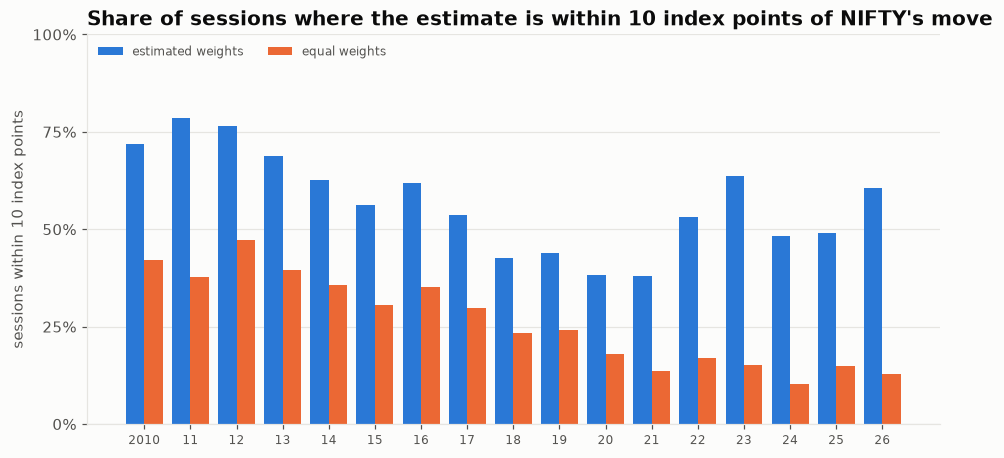
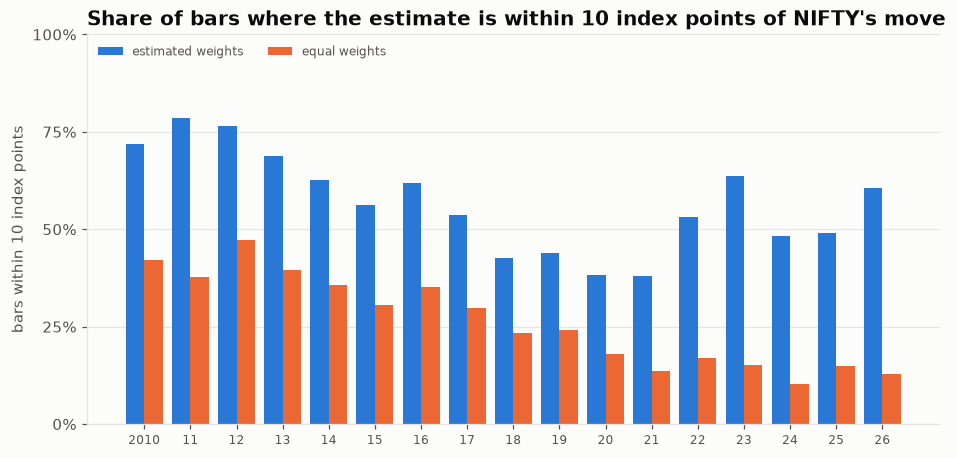
docs: drop an untested claim from finding 5, make the demo sector contributions add up and label them synthetic, and say bars in the sectors report
Finding 5 now only states that no regularisation was used. The demo snapshot's top-10 stocks plus the other 38 now sum to the +84 shown, and the README says the Sectors screenshot is synthetic. The sectors report and its charts count NIFTY bars, matching findings 3 to 5.

diff --git a/src/mt/reports.py b/src/mt/reports.py
@@ -500,7 +500,7 @@ def _tracking_charts(trk: pd.DataFrame, out_dir: Path) -> None:
     ax.set_xlabel("sum of weight × stock return, weights from the previous 60 sessions")
     ax.set_ylabel("NIFTY's day return")
     ax.set_title(
-        f"Estimated against actual NIFTY day return, {len(trk):,} sessions "
+        f"Estimated against actual NIFTY day return, {len(trk):,} bars "
         f"{trk.index[0]:%Y}–{trk.index[-1]:%Y}\ndashed line: estimate equals actual"
     )
     plots.save(fig, out_dir, "sectors_tracking")
@@ -518,15 +518,15 @@ def _tracking_charts(trk: pd.DataFrame, out_dir: Path) -> None:
     ax.set_xticks(x, [str(y)[2:] if y != years[0] else str(y) for y in years], fontsize=8)
     ax.set_ylim(0, 100)
     ax.set_yticks([0, 25, 50, 75, 100], ["0%", "25%", "50%", "75%", "100%"])
-    ax.set_ylabel("sessions within 10 index points")
+    ax.set_ylabel("bars within 10 index points")
     ax.grid(axis="x", visible=False)
     ax.legend(loc="upper left", fontsize=8, ncols=2)
-    ax.set_title("Share of sessions where the estimate is within 10 index points of NIFTY's move")
+    ax.set_title("Share of bars where the estimate is within 10 index points of NIFTY's move")
     plots.save(fig, out_dir, "sectors_error_by_year")
 
 
 def report_sectors(out_dir: Path) -> dict:
-    """Does the sum of estimated contributions add up to NIFTY's move, out of sample? Each session
+    """Does the sum of estimated contributions add up to NIFTY's move, out of sample? Each NIFTY bar
     from 2010 uses weights fitted on the 60 sessions before it only (price returns from `close`)."""
     table = _table()
     close = table["close"][[*SYMBOLS, "NIFTY"]]
@@ -534,8 +534,8 @@ def report_sectors(out_dir: Path) -> dict:
     err = trk["est_pts"] - trk["actual_pts"]
     eq_err = trk["eq_pts"] - trk["actual_pts"]
     out: dict = {
-        "sessions scored": f"{len(trk):,} ({trk.index[0]:%Y-%m-%d} to {trk.index[-1]:%Y-%m-%d})",
-        "stocks with a weight per session (min / median / max)": (
+        "bars scored": f"{len(trk):,} ({trk.index[0]:%Y-%m-%d} to {trk.index[-1]:%Y-%m-%d})",
+        "stocks with a weight per scored bar (min / median / max)": (
             int(trk["n_est"].min()),
             int(trk["n_est"].median()),
             int(trk["n_est"].max()),
@@ -550,7 +550,7 @@ def report_sectors(out_dir: Path) -> dict:
         for era, mask in eras.items():
             st = _tracking_stats(e[mask], trk["actual_pts"][mask])
             out[f"{label}, {era}"] = (
-                f"{int(mask.sum()):,} sessions; absolute error median {st['median']:.1f} pts, "
+                f"{int(mask.sum()):,} bars; absolute error median {st['median']:.1f} pts, "
                 f"90th percentile {st['p90']:.1f} pts; within 10 pts on {_pct(st['within'], 1)}; "
                 f"error / NIFTY's absolute move: median {_pct(st['rel_median'], 1)}, "
                 f"all days together {_pct(st['rel_total'], 1)}"

diff --git a/README.md b/README.md
@@ -111,6 +111,9 @@ A stock's points are weight × its day return × NIFTY's previous close. A stock
 in that span has no weight and is listed as "weight not estimated yet". The header compares the sum of all
 estimates with NIFTY's actual move; finding 5 measures how far apart the two are.
 
+The screenshot is synthetic demo data: its 10 listed stocks add +68.1 points, the other 38 stocks with a
+weight add +16.2, and the two make the +84 shown.
+
 ## Findings
 
 ### 1. Yahoo has no NIFTY bar on 11 to 19 weekdays a year, and on 21 more weekdays from 2008 to 2019 it had stock bars but no index bar; of 21 one-day drops over 20%, 9 are known data errors and 12 checked out as real moves
@@ -211,21 +214,21 @@ for that day or the next.
 - **Stock count:** the 50-day share is computed over 38 stocks on 2 Jan 2008, growing to 50.
 - `mt report breadth` prints every number above.
 
-### 5. Out of sample, weights from the previous 60 sessions put the sum of stock contributions within 10 NIFTY points of the day's move on 56.8% of 4,127 sessions from 2010 (equal weights: 26.3%); the median error is 14.7% of the day's move
+### 5. Out of sample, weights from the previous 60 sessions put the sum of stock contributions within 10 NIFTY points of the day's move on 56.8% of 4,127 NIFTY bars from 2010 (equal weights: 26.3%); the median error is 14.7% of the day's move
 
-<a href="docs/img/sectors_tracking.png"><picture><source media="(prefers-reduced-motion: reduce)" srcset="docs/img/sectors_tracking.png"><img src="docs/img/sectors_tracking.gif" alt="Scatter of the estimated NIFTY day return (sum of weight times stock return) against NIFTY's actual day return for 4,127 sessions from 2010 to 2026, along a dashed line where the two are equal" width="720"></picture></a>
+<a href="docs/img/sectors_tracking.png"><picture><source media="(prefers-reduced-motion: reduce)" srcset="docs/img/sectors_tracking.png"><img src="docs/img/sectors_tracking.gif" alt="Scatter of the estimated NIFTY day return (sum of weight times stock return) against NIFTY's actual day return for 4,127 bars from 2010 to 2026, along a dashed line where the two are equal" width="720"></picture></a>
 
-<a href="docs/img/sectors_error_by_year.png"><picture><source media="(prefers-reduced-motion: reduce)" srcset="docs/img/sectors_error_by_year.png"><img src="docs/img/sectors_error_by_year.gif" alt="Grouped bars per year from 2010 to 2026: share of sessions where the estimated contributions are within 10 index points of NIFTY's move, from 38% in 2021 to 79% in 2011, against 10% to 47% with equal weights" width="720"></picture></a>
+<a href="docs/img/sectors_error_by_year.png"><picture><source media="(prefers-reduced-motion: reduce)" srcset="docs/img/sectors_error_by_year.png"><img src="docs/img/sectors_error_by_year.gif" alt="Grouped bars per year from 2010 to 2026: share of bars where the estimated contributions are within 10 index points of NIFTY's move, from 38% in 2021 to 79% in 2011, against 10% to 47% with equal weights" width="720"></picture></a>
 
-- **Test:** every session from 4 Jan 2010 to 23 Nov 2026 with a NIFTY return (4,127) is scored with
+- **Test:** every NIFTY bar from 4 Jan 2010 to 23 Nov 2026 that has a return (4,127) is scored with
   weights fitted only on the 60 sessions before it. Error is the sum of the stocks' contributions minus
   NIFTY's actual points. A stock without 60 valid returns before the day has no weight and adds nothing:
-  41 to 50 stocks (median 47) have one on a scored session.
+  41 to 50 stocks (median 47) have one on a scored bar.
 - **Estimated weights:** absolute error median 8.4 points, 90th percentile 24.6; within 10 points on
-  56.8% of sessions. Error as a share of NIFTY's absolute move: median 14.7%, 13.4% with all days summed.
+  56.8% of bars. Error as a share of NIFTY's absolute move: median 14.7%, 13.4% with all days summed.
 - **Equal weights (the plain baseline):** median 21.3 points, 90th percentile 71.1, within 10 points on
   26.3%; median 36.8% of the move, 35.5% with all days summed.
-- **By period:** within 10 points on 68.1% of the 1,693 sessions of 2010 to 2016 and 49.0% of the 2,434
+- **By period:** within 10 points on 68.1% of the 1,693 bars of 2010 to 2016 and 49.0% of the 2,434
   from 2017 on; by year from 37.9% (2021) to 78.6% (2011). NIFTY's mean previous close was 5,457 in 2010
   and 24,139 in 2026, so 10 points is a smaller share of the index later; the median error as a share of
   the day's move was 17.3% in 2010 and 6.4% in 2026.
@@ -234,8 +237,7 @@ for that day or the next.
   that day put 8 of the same 10 stocks in the top 10 (M&M and TCS in place of Kotak Mahindra Bank and
   Bajaj Finance). Over NSE's 10 stocks the mean absolute difference is 0.41 percentage points, the largest
   1.06 (Kotak Mahindra Bank: 2.13% estimated, 3.19% listed), and the 10 estimates total 51.3% against 53.04%.
-- **No regularisation:** the plain non-negative fit is used; 60 observations for up to 50 weights are
-  noisy, which is why the daily check in the app and this test exist.
+- **No regularisation:** the plain non-negative fit is used, with 60 observations for up to 50 weights.
 - **Sample:** the 50 are today's members applied to past years (survivorship-biased);
   `mt report sectors` prints every number above.
 
